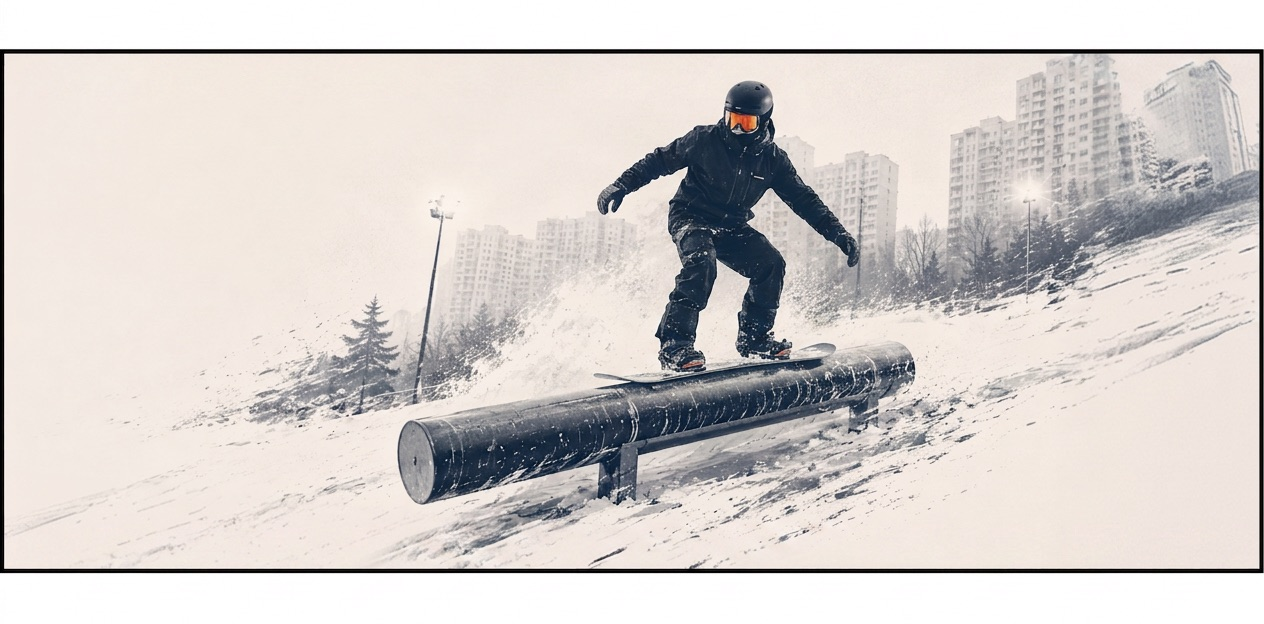
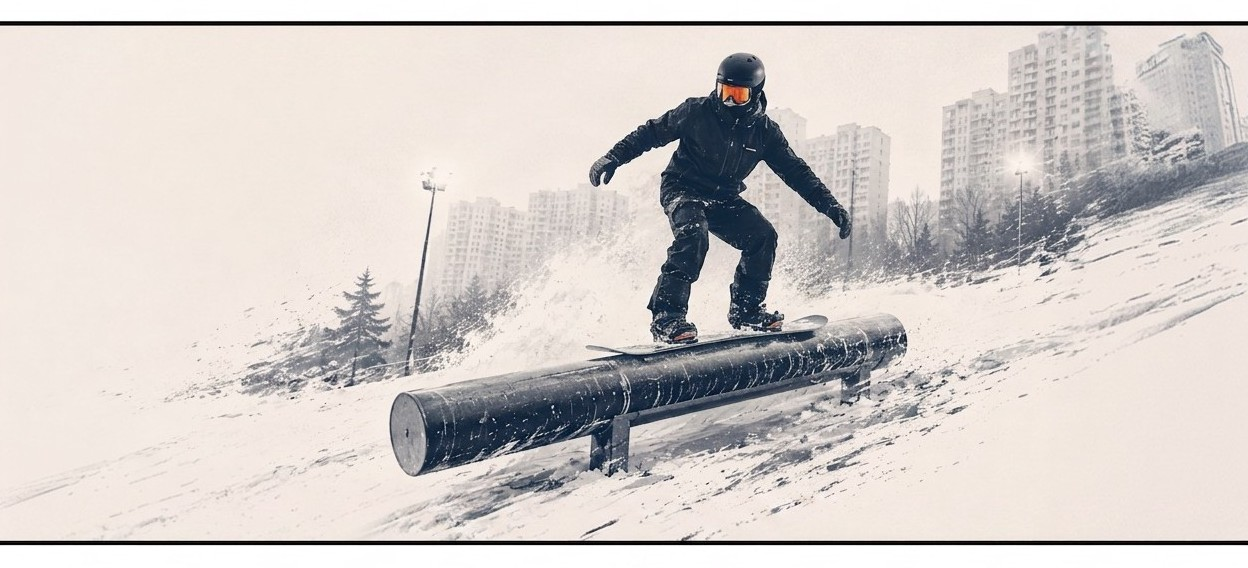
Вшитые линии вырезаны из самих файлов (hero тюбинга, карточки Тюбинг/Сноупарк) — чисто на любой ширине

Changed region(s): [[0.0, 0.0299, 1.0, 0.9877]]

diff --git a/css/main.css b/css/main.css
@@ -259,9 +259,6 @@ html.preloading body { overflow: hidden; }
 .fun-card.p4 .num { top: 270.8px; } .fun-card.p4 .ttl { top: 296.8px; } .fun-card.p4 .dsc { top: 338.9px; width: 540px; }
 .fun-card.p4 .more { top: 392.8px; }
 .fun-card.p3 .pic img { object-position: 50% 32%; }
-/* в экспортах вшиты краевые линии — прячем лёгким зумом */
-.fun-card.p4 .pic img { transform: scale(1.025); }
-.fun-card:hover .pic img { transform: scale(1.035); }
 
 /* дополнительные активности */
 .act-h2 { position: absolute; left: 120px; top: 3003.51px; width: 900px; }
@@ -311,12 +308,7 @@ html.preloading body { overflow: hidden; }
 .tub-stripe-top { left: -224.44px; top: 1183.94px; transform: rotate(-15deg) scaleX(1.4); }
 .tub-stripe-bottom { left: -224.44px; top: 2670.95px; transform: rotate(15deg) scaleY(-1) scaleX(1.4); }
 
-/* точный кроп из макета: h 106.39%, top -5.32%, w 104.16% */
-.page-tubing .hero-strip .media img {
-  position: absolute; left: 0; top: -5.32%;
-  width: 104.16%; height: 106.39%;
-  object-fit: fill; object-position: center;
-}
+.page-tubing .hero-strip .media img { object-position: center; }
 .tub-paint-h1 { left: 112.96px; top: 200px; width: 386.3px; height: 137.77px; z-index: 3; }
 .page-tubing .h1-hero { left: 120.96px; top: 190px; }
 .tub-note { position: absolute; left: 1115.23px; top: 840.21px; width: 236.02px; font-size: 20px; color: var(--ink); z-index: 2; }
@@ -568,10 +560,6 @@ html.static .rv { opacity: 1; transform: none; transition: none; }
   .page-home .hero-strip { height: calc(100svh - 56px); }
   .page-tubing .hero-strip { height: 58vw; max-height: 420px; }
   .page-home .hero-strip .media img { object-position: 62% 50%; }
-  .page-tubing .hero-strip .media img {
-    position: absolute; left: -2%; top: -2%; width: 104%; height: 104%;
-    object-fit: cover; object-position: 50% 50%;
-  }
   .hero-paint-h1, .tub-paint-h1 { display: none; }
   .hero-badge { position: absolute; left: 16px; top: 74px; margin: 0; z-index: 4; transform: scale(0.82); transform-origin: left top; }
   .h1-hero, .home .h1-hero { position: absolute; left: 16px; top: 126px; margin: 0; font-size: clamp(36px, 10.5vw, 46px); line-height: 1.24; }
